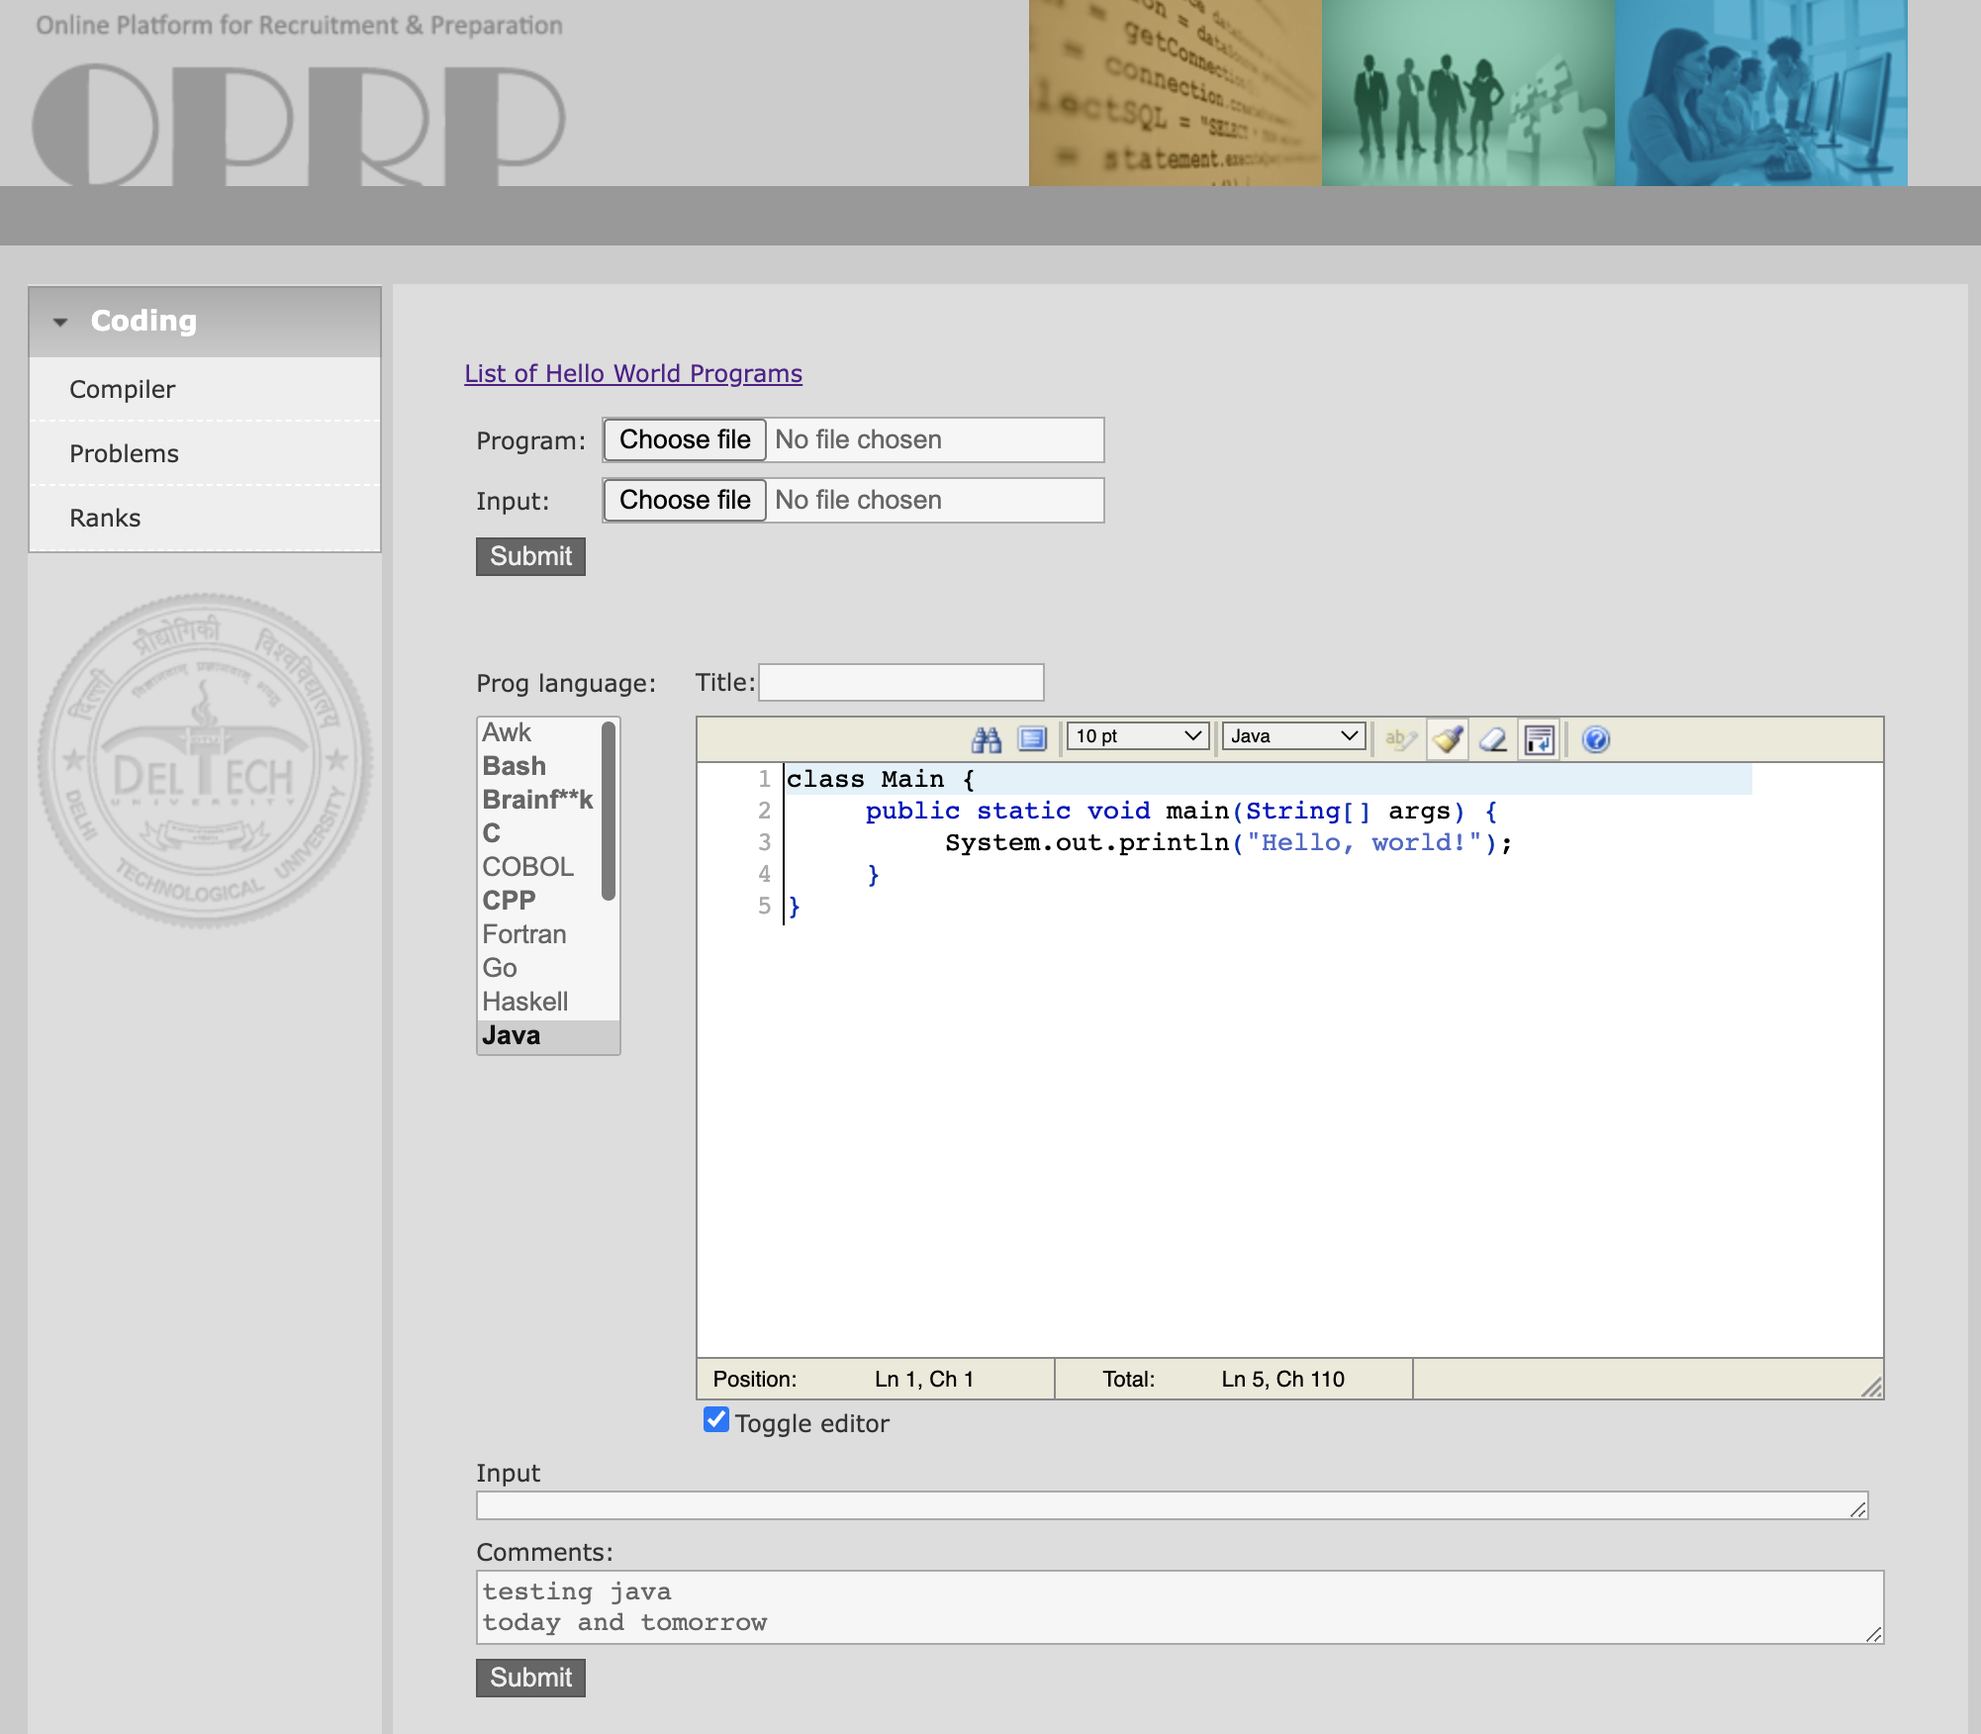
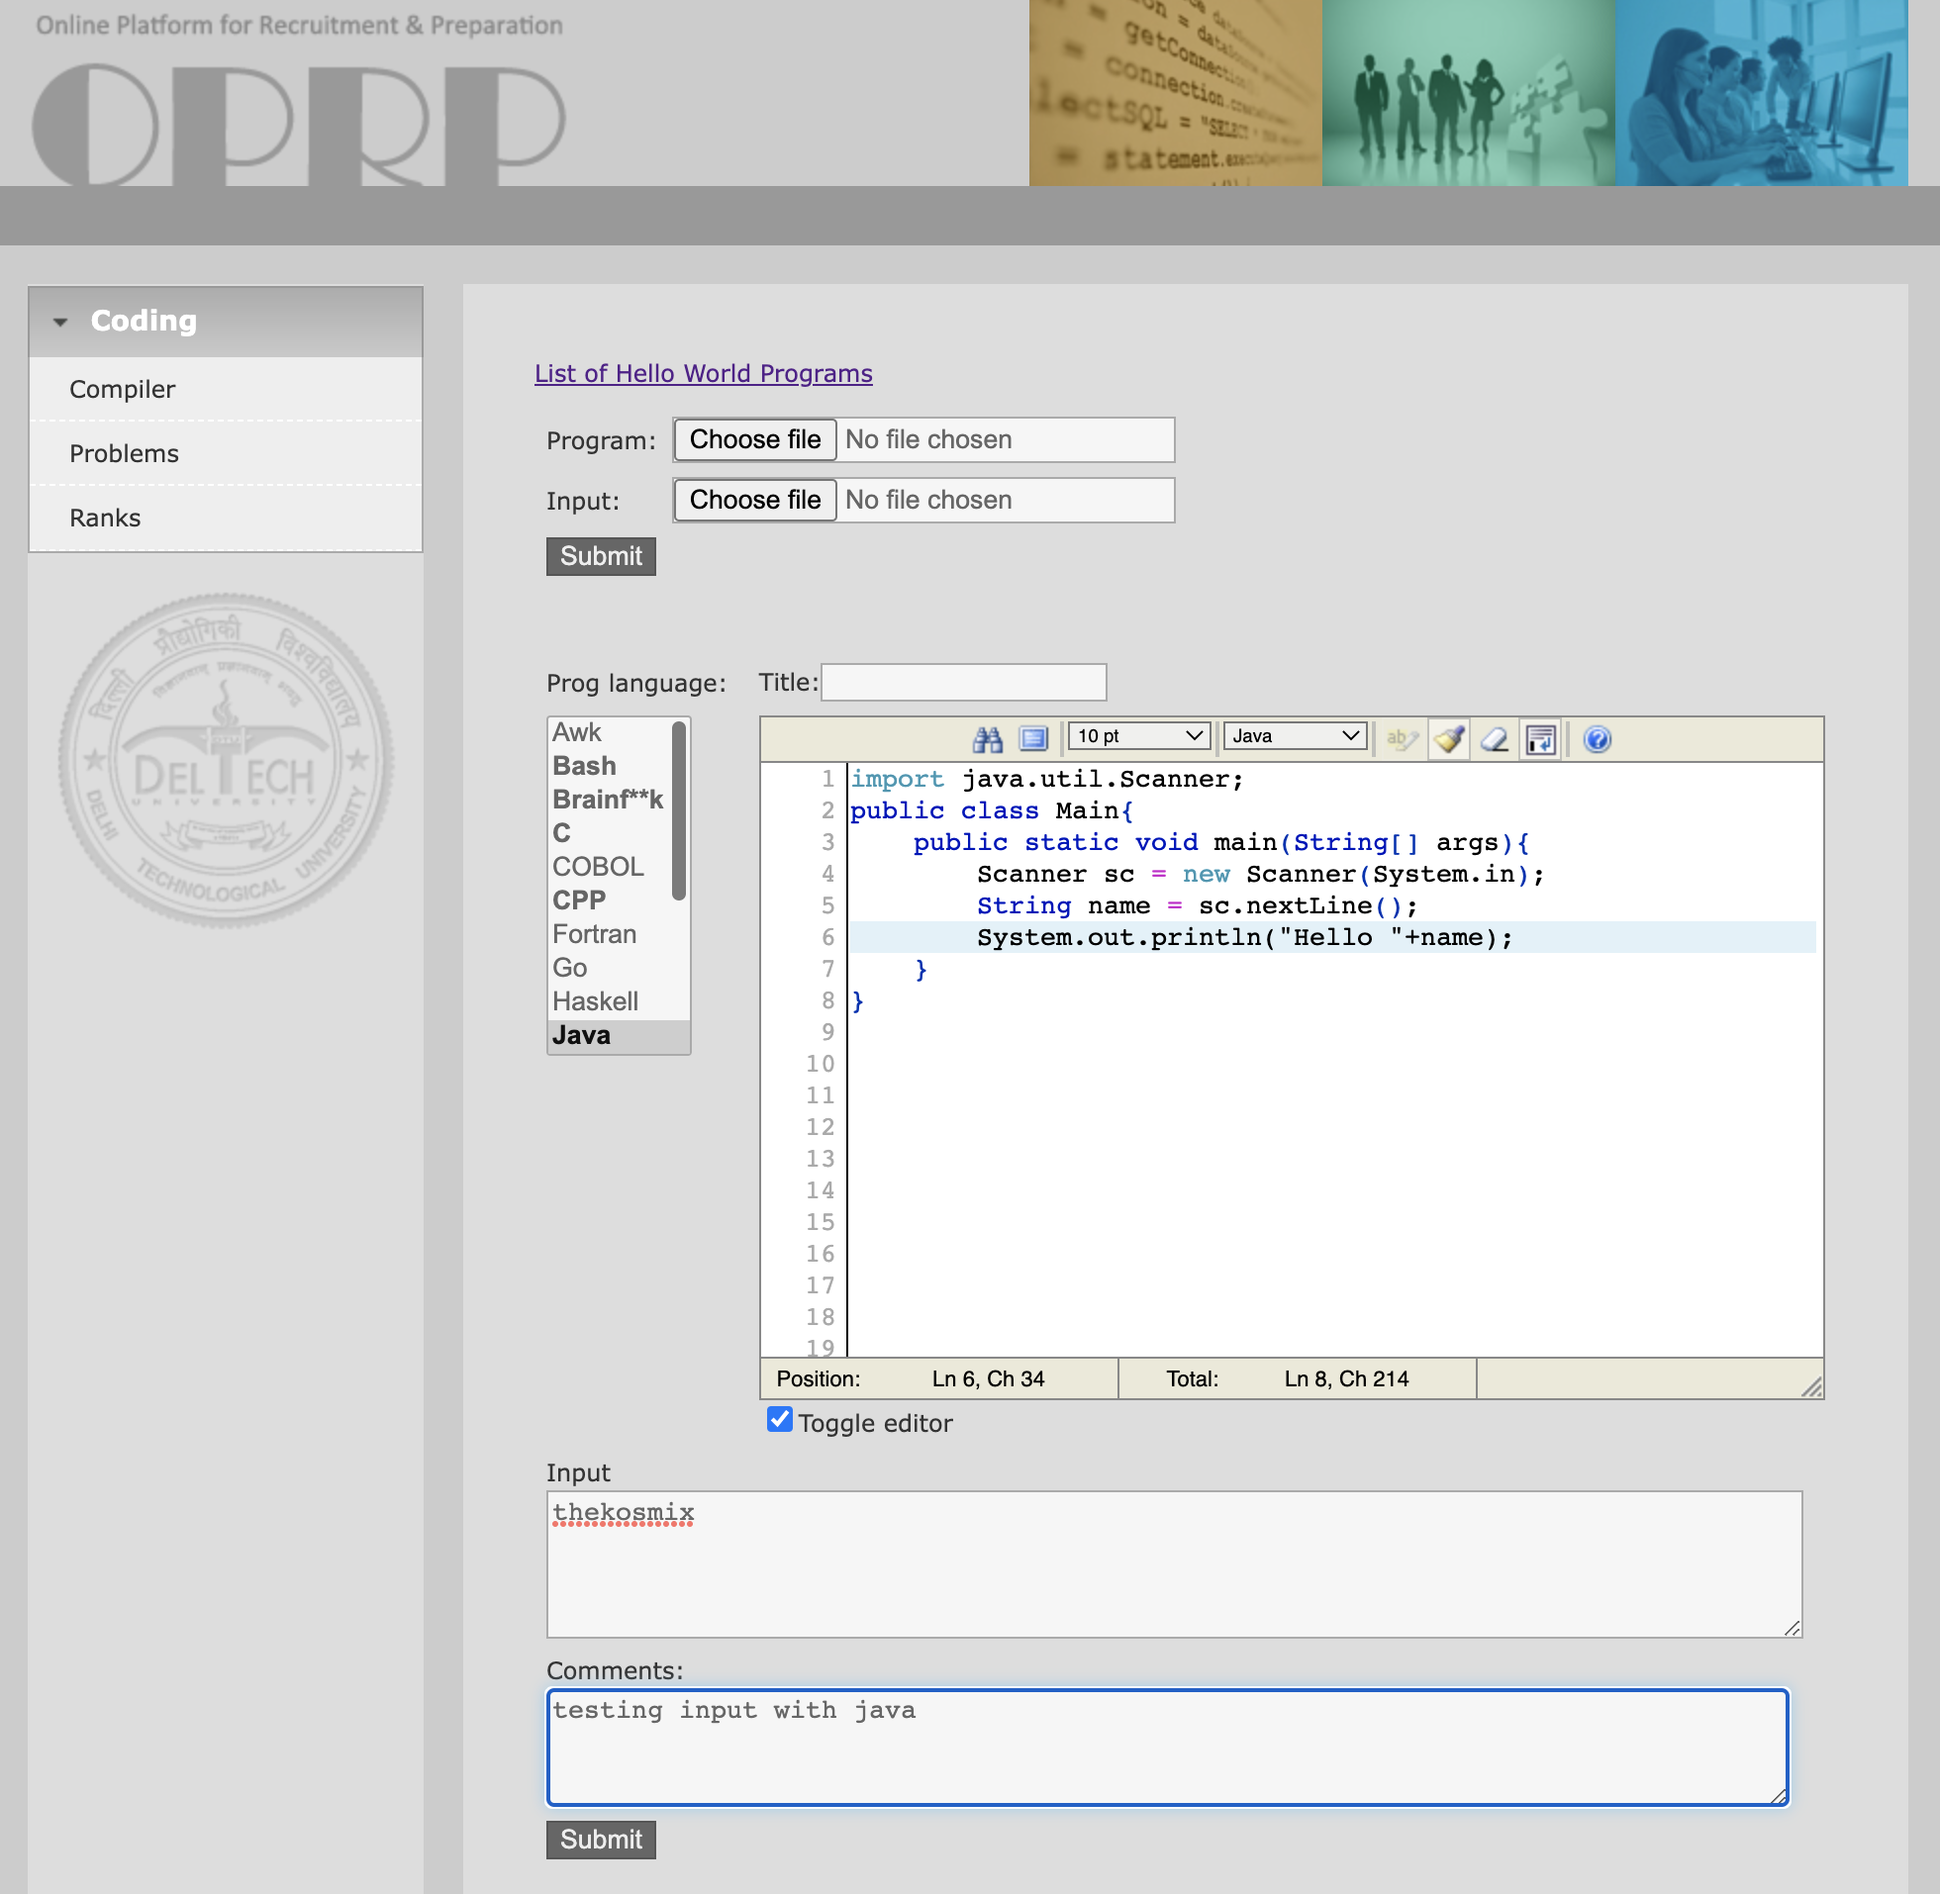
example with input in java

diff --git a/README.md b/README.md
@@ -27,7 +27,7 @@ The project is hosted and live [here](https://www.thekosmix.com/online_compiler/
   ![Python Code](screen_shots/python_code.png)
   ![Python Output](screen_shots/python_output.png)
   
-### Java
+### Java with input example
 
   ![Java Code](screen_shots/java_code.png)
   ![Java Output](screen_shots/java_output.png)
